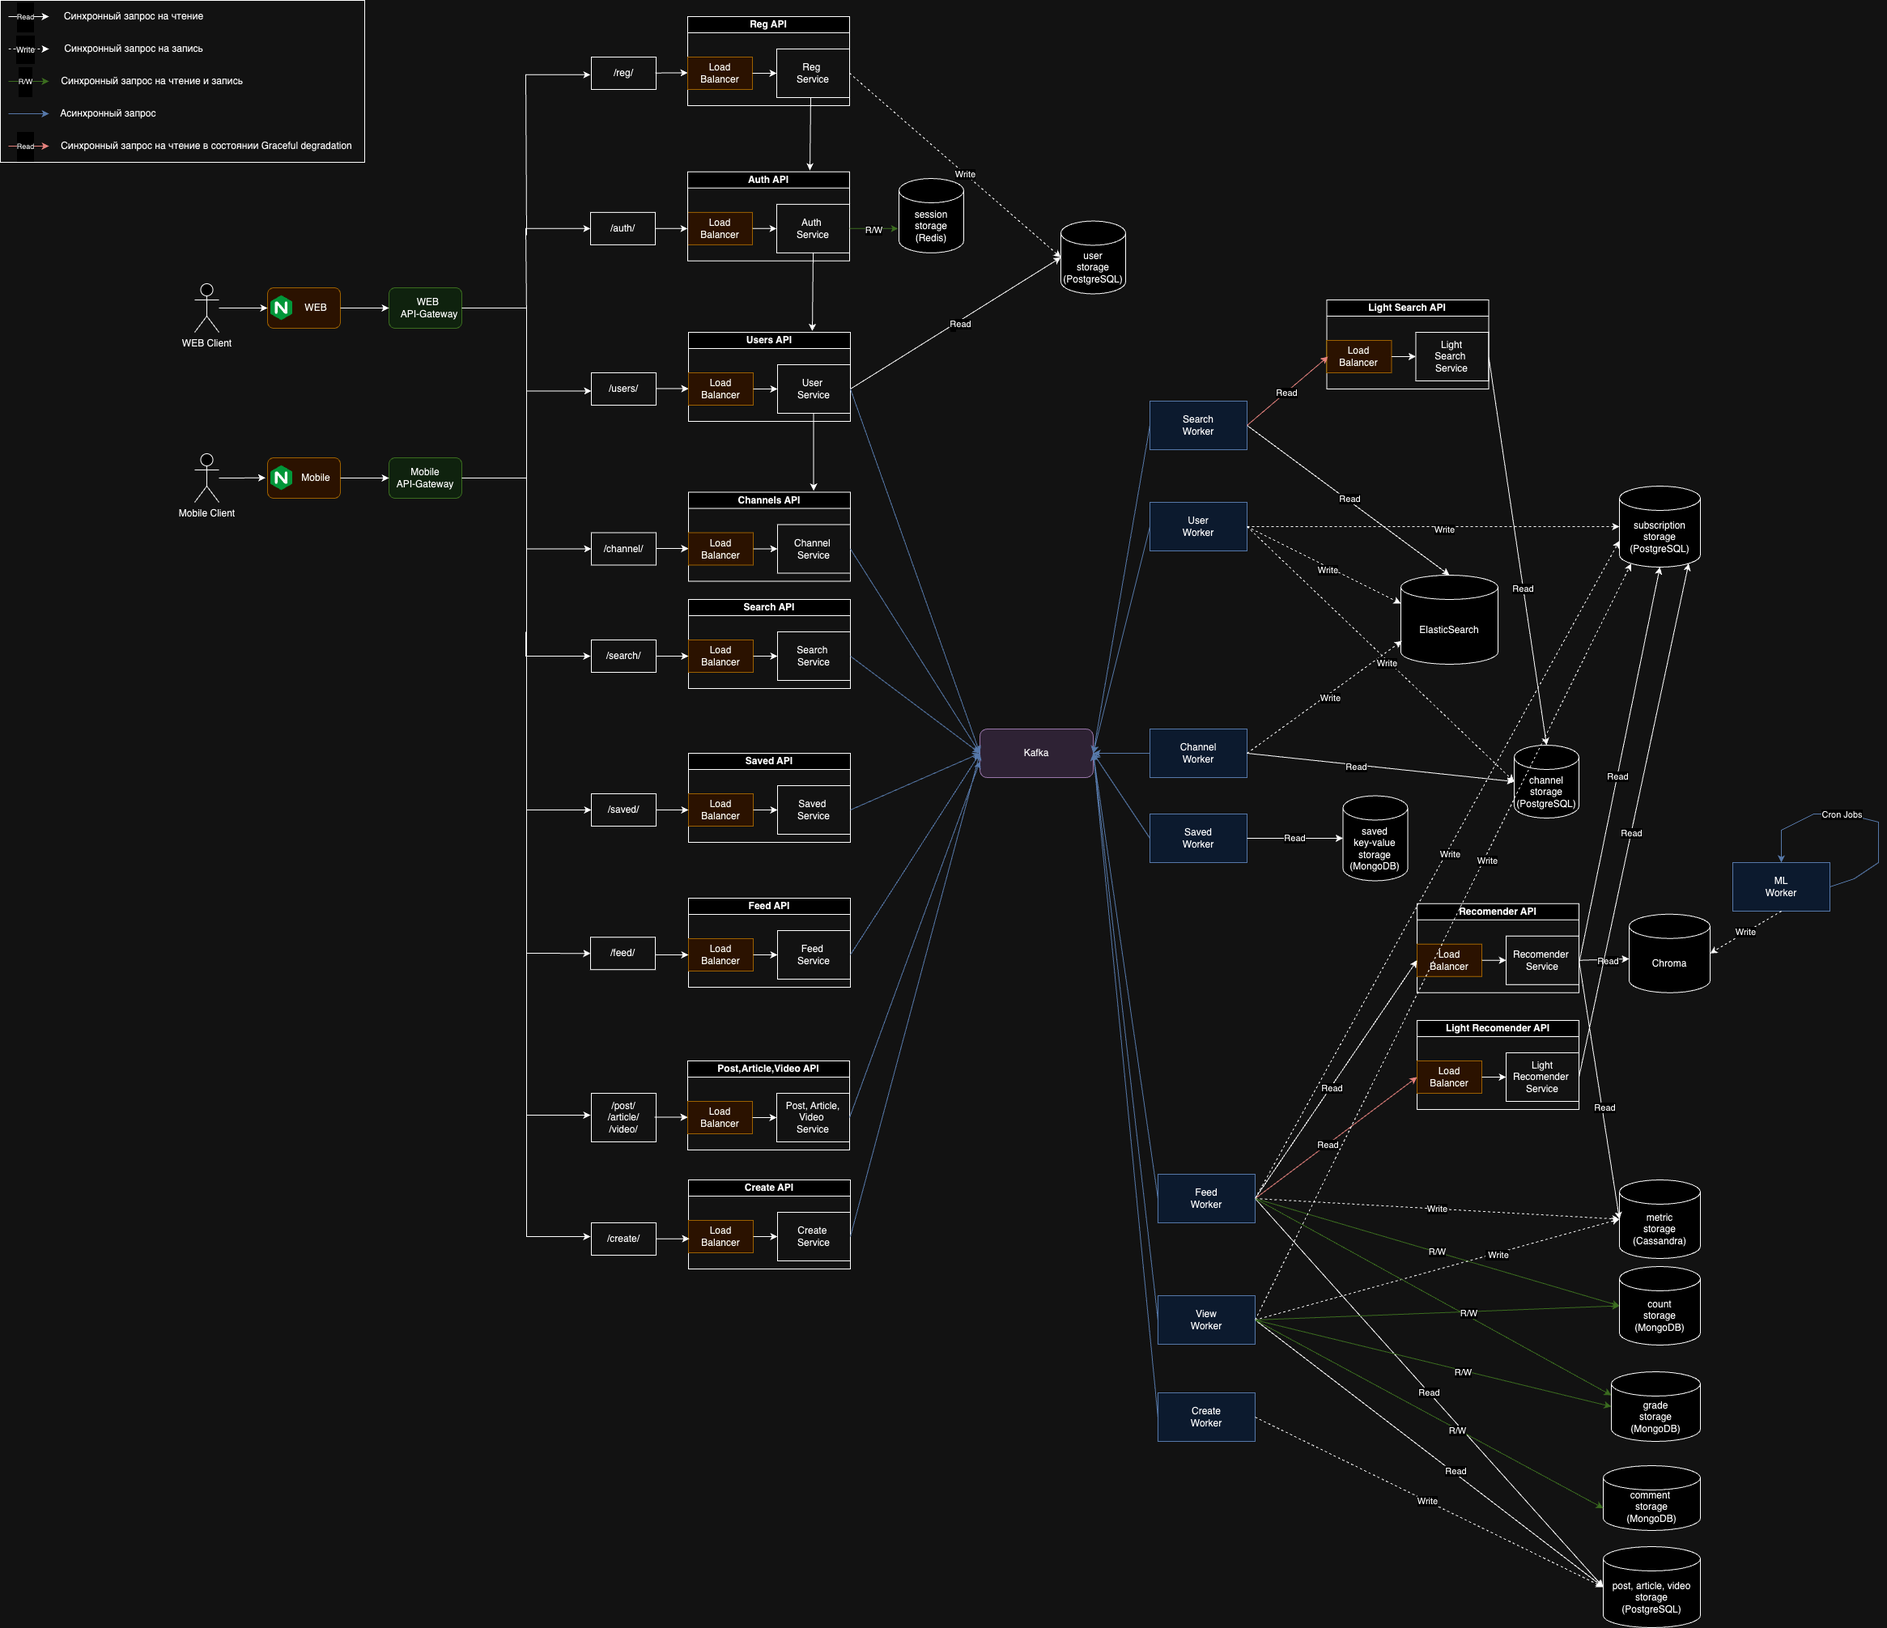
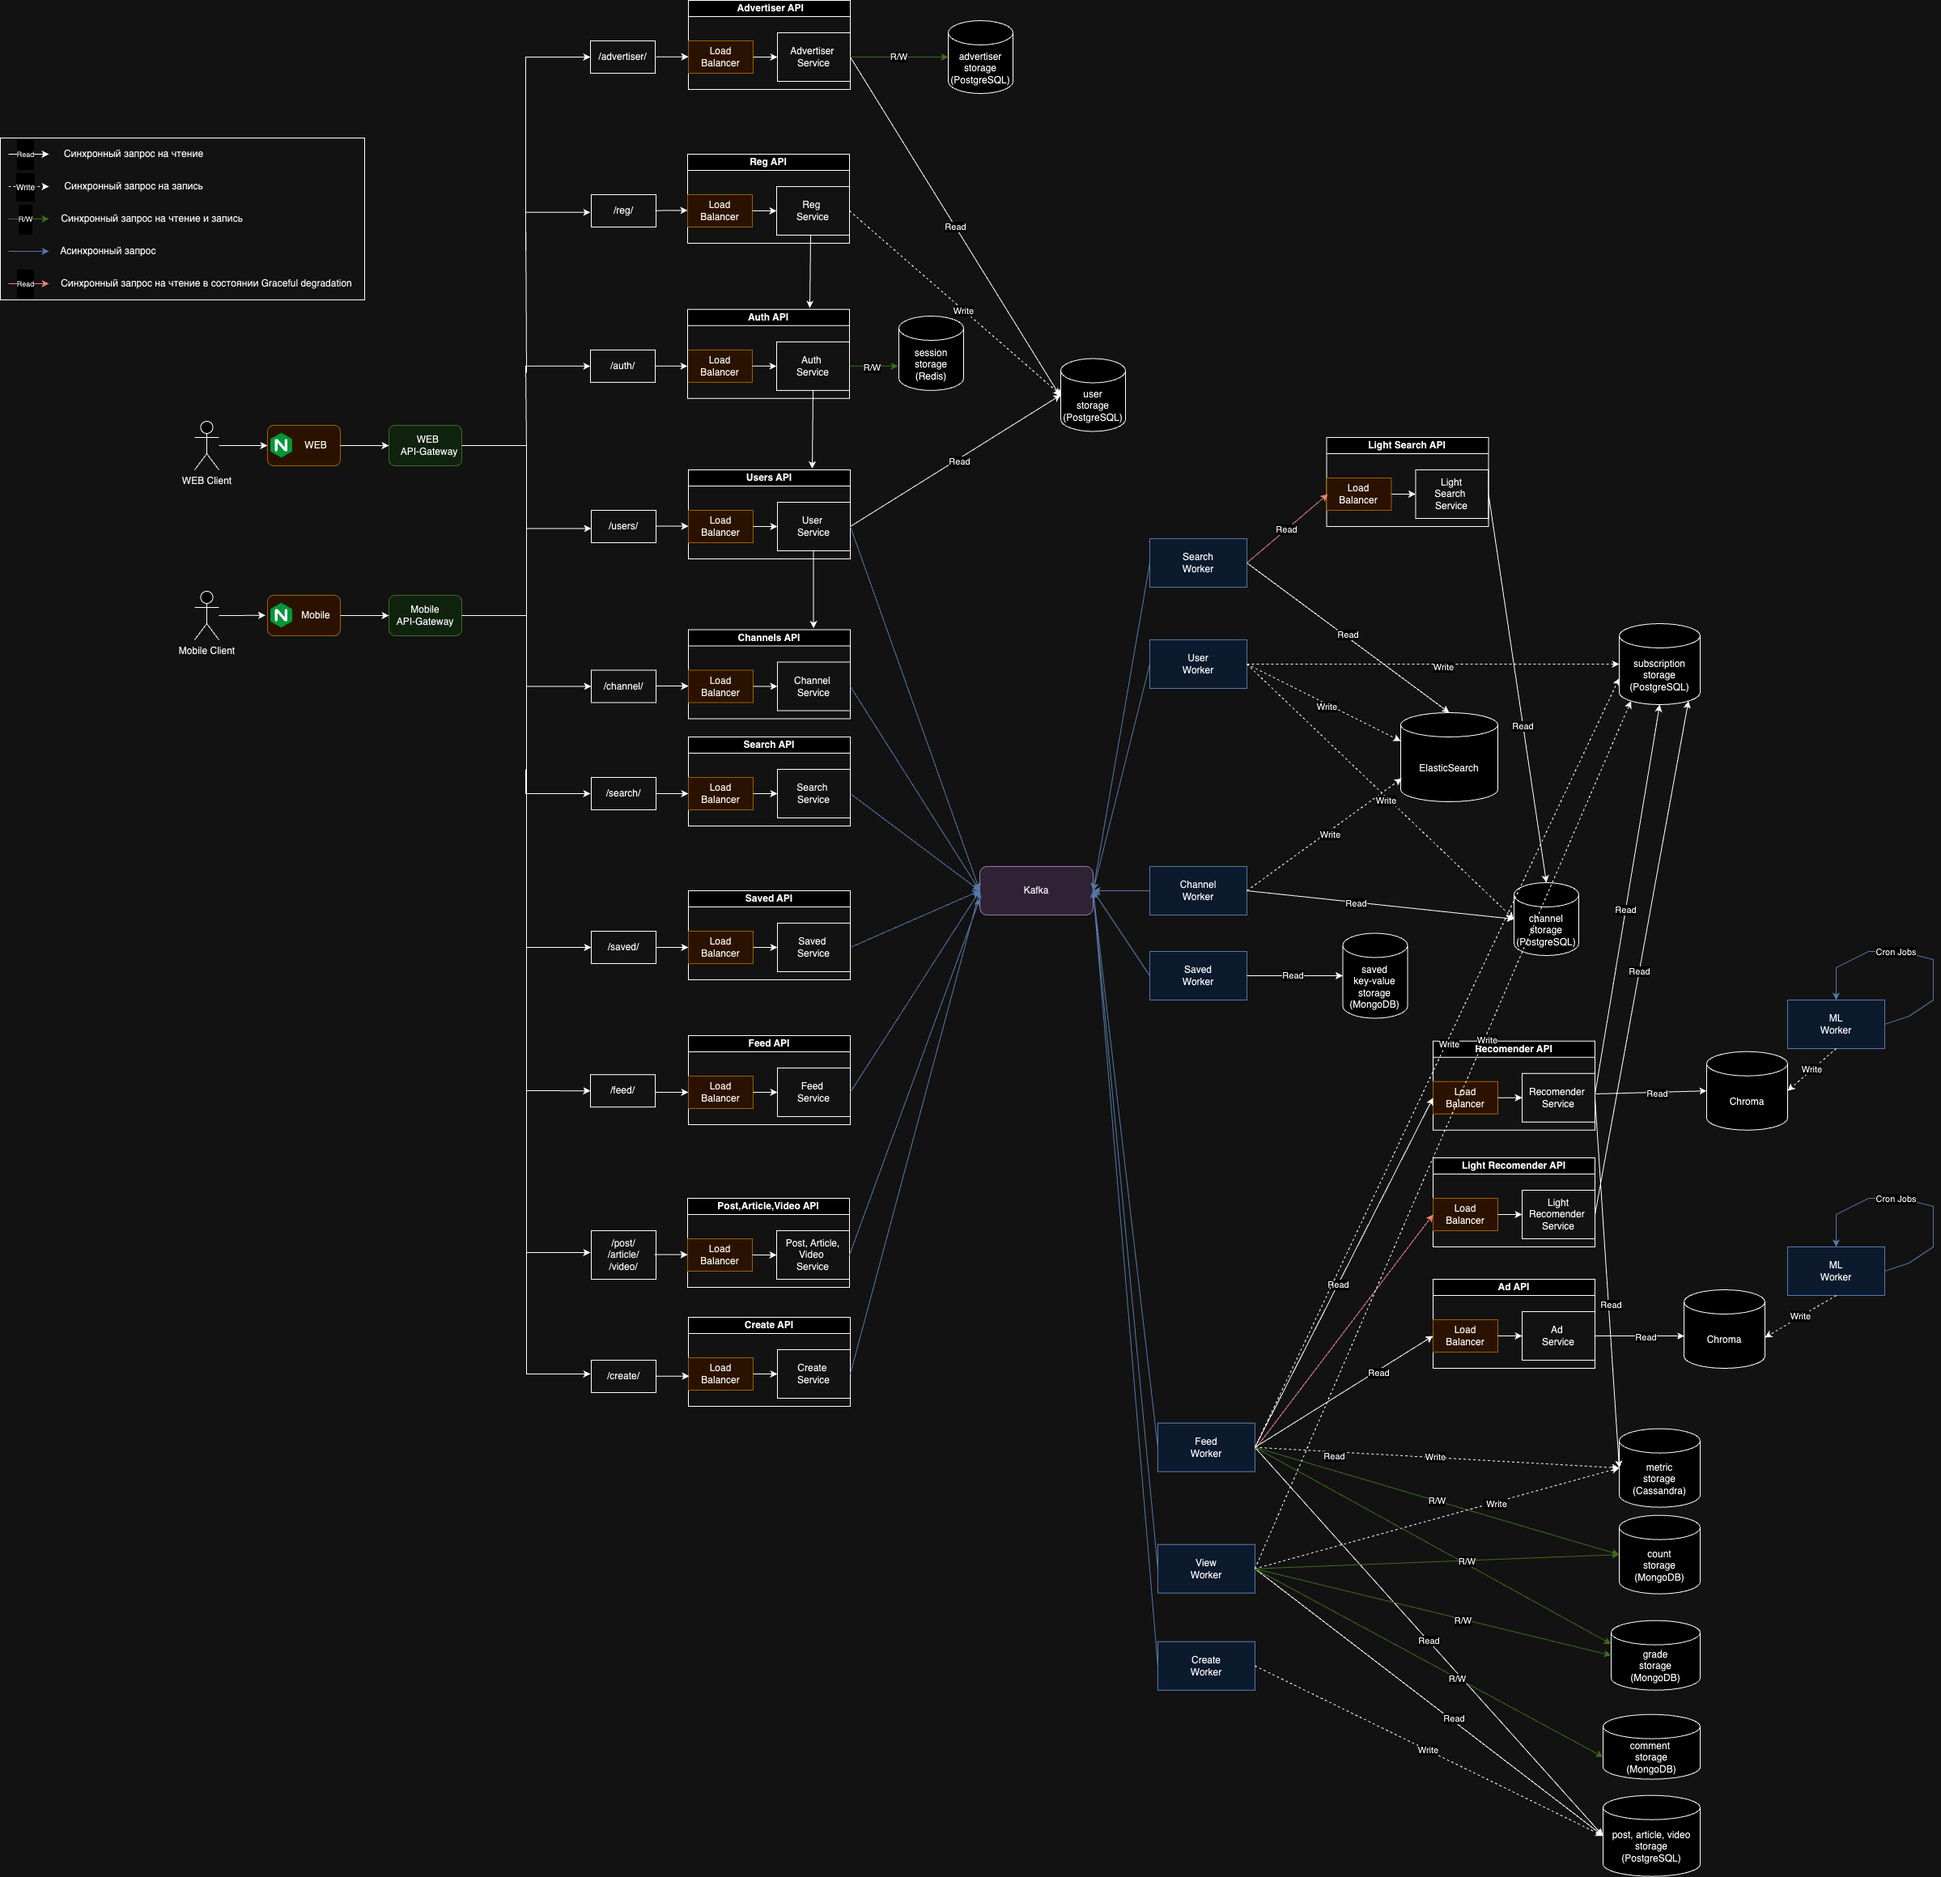
add ads4

diff --git a/README.md b/README.md
@@ -292,7 +292,7 @@ Nginx вместе с Kubernetes могут обеспечить высокую 
 |5|post_finish_reading_metric, article_finish_reading_metric, post_action_metric, article_action_metric, video_action_metric, post_comment_metric, article_comment_metric, video_comment_metric, ad_action_metric|Cassandra|Обладает высокой масштабируемостью и может легко обрабатывать большие объемы данных на нескольких узлах.|
 |6|   post_grade, post_comment, article_grade, article_comment, video_grade, video_comment|MongoDB|MongoDB удобно использовать для хранения коллекций данных с переменной структурой, таких как оценки пользователей, где каждая запись может содержать разное количество идентификаторов объектов и оценок.|
 
-СУБД Chroma будем использовать для хранения эмбеддингов для рекомендаций.
+СУБД Chroma будем использовать для хранения эмбеддингов для рекомендаций и рекламы.
 
 ### Индексы
 
